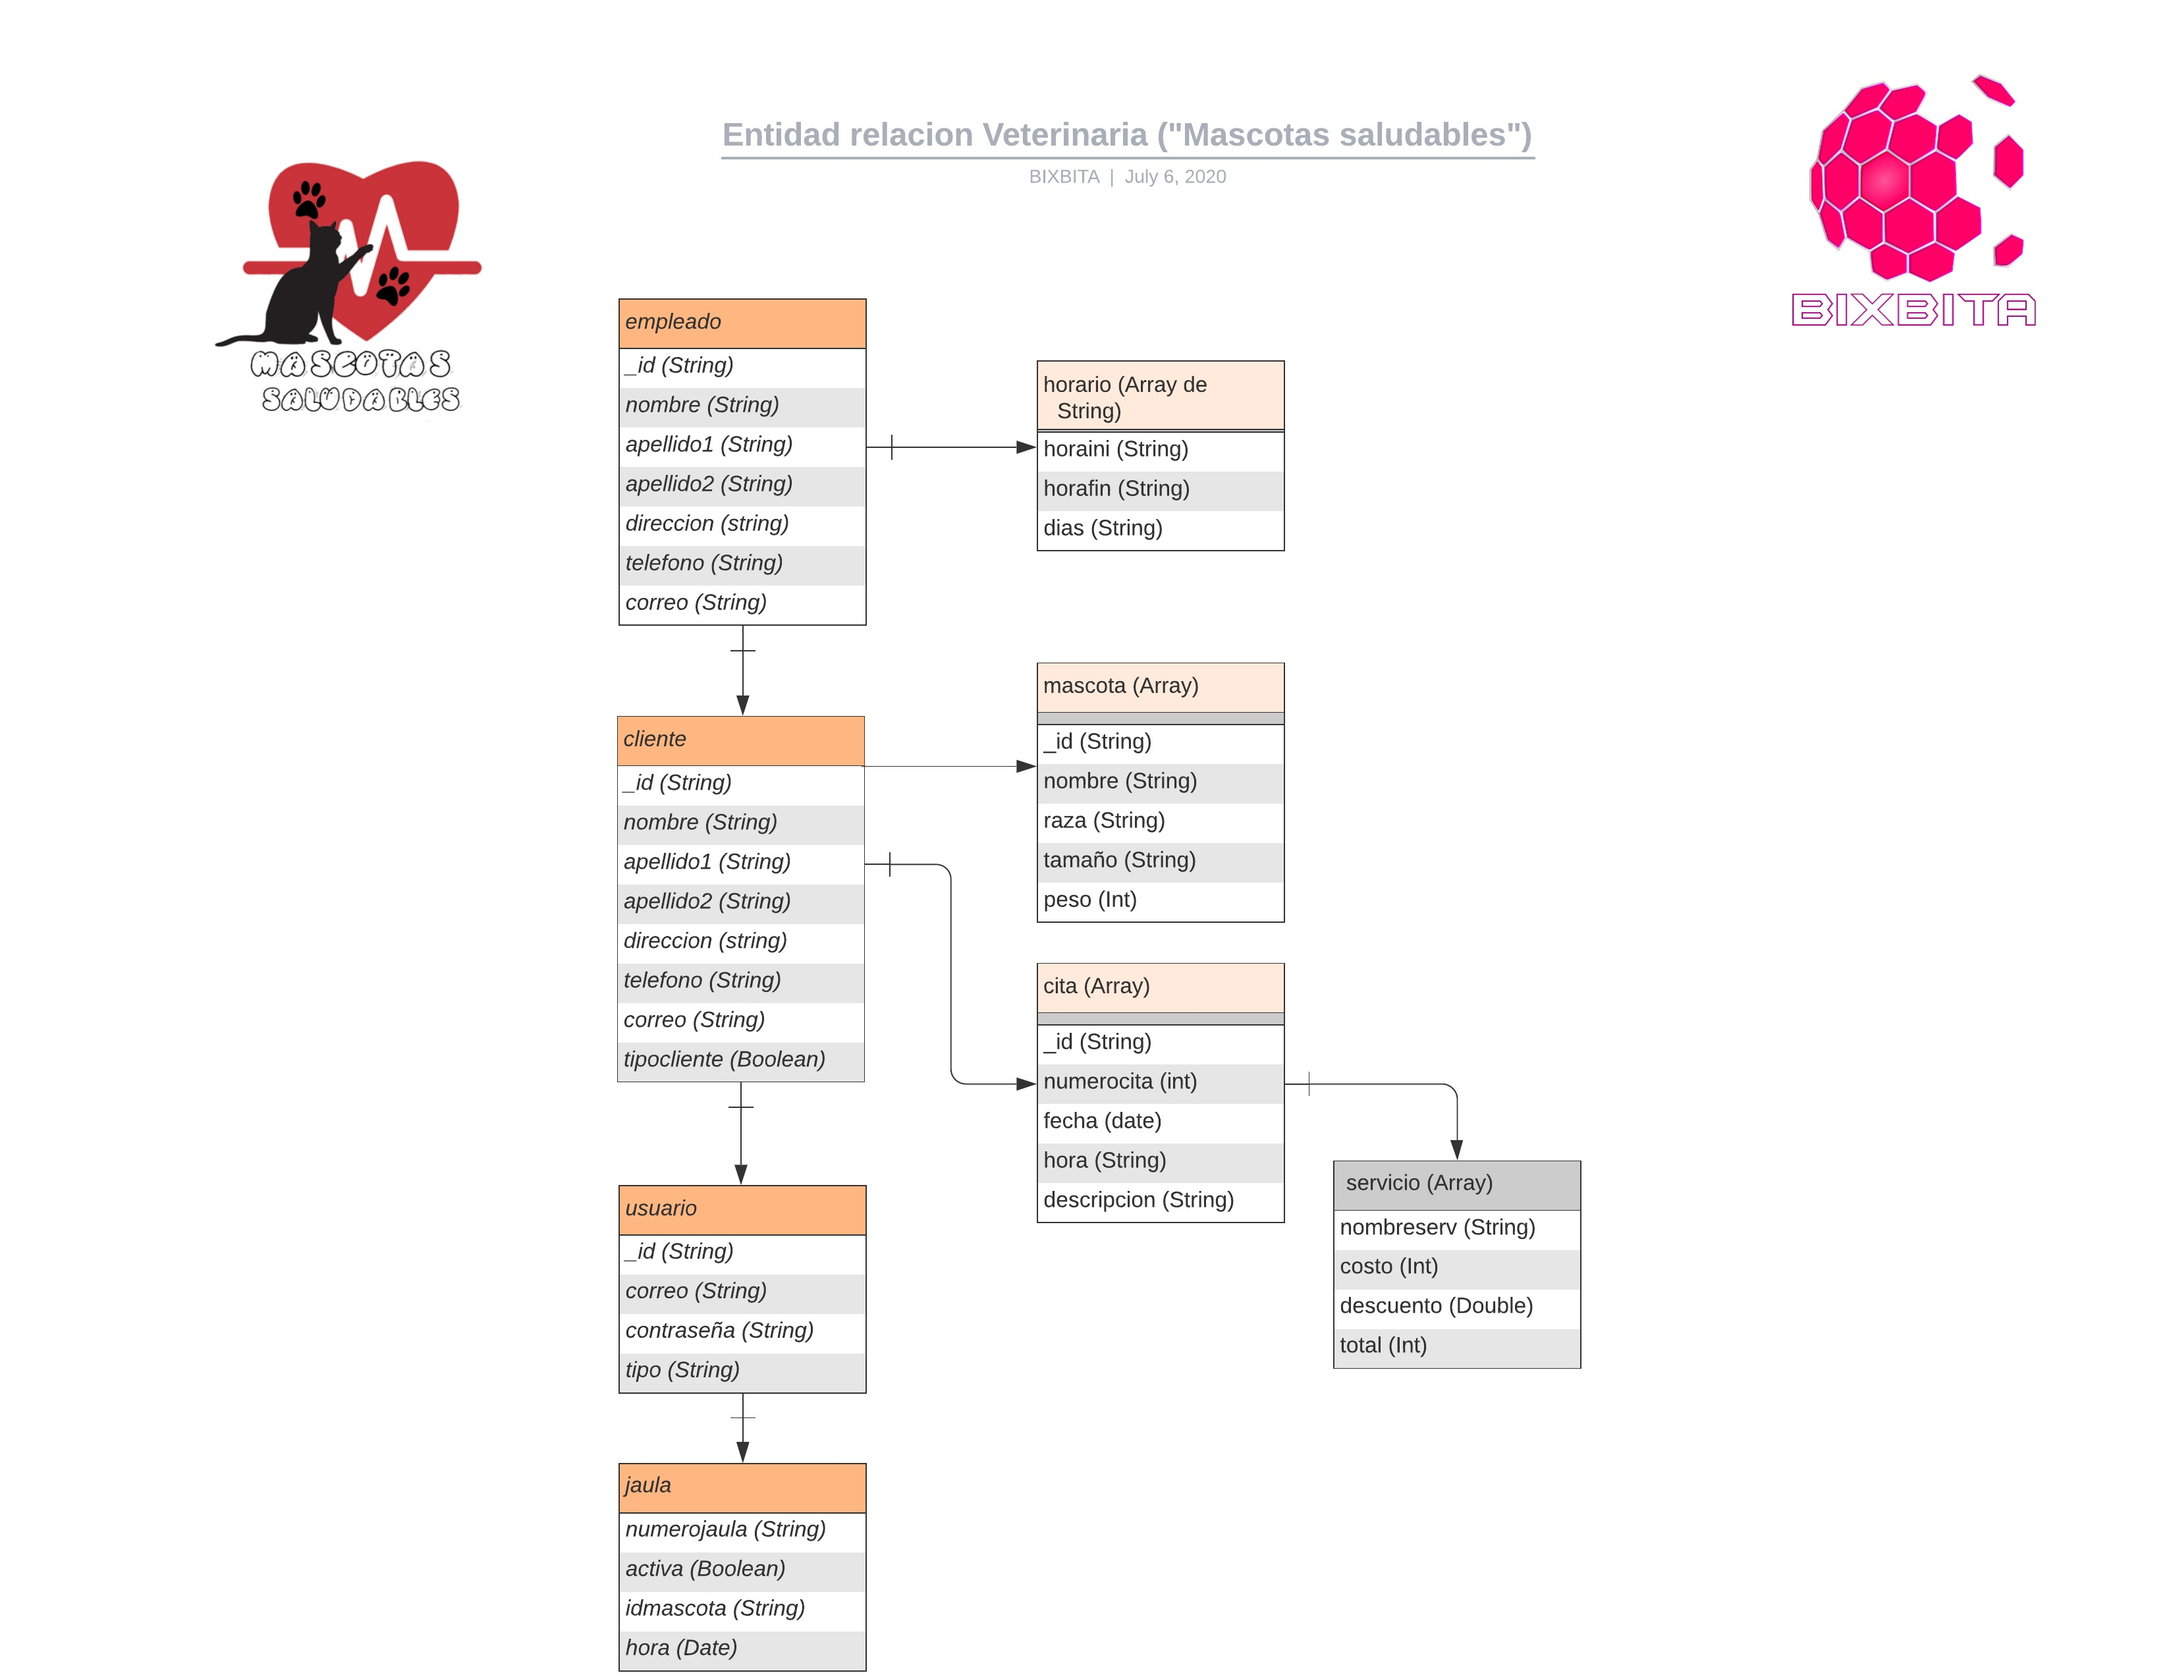
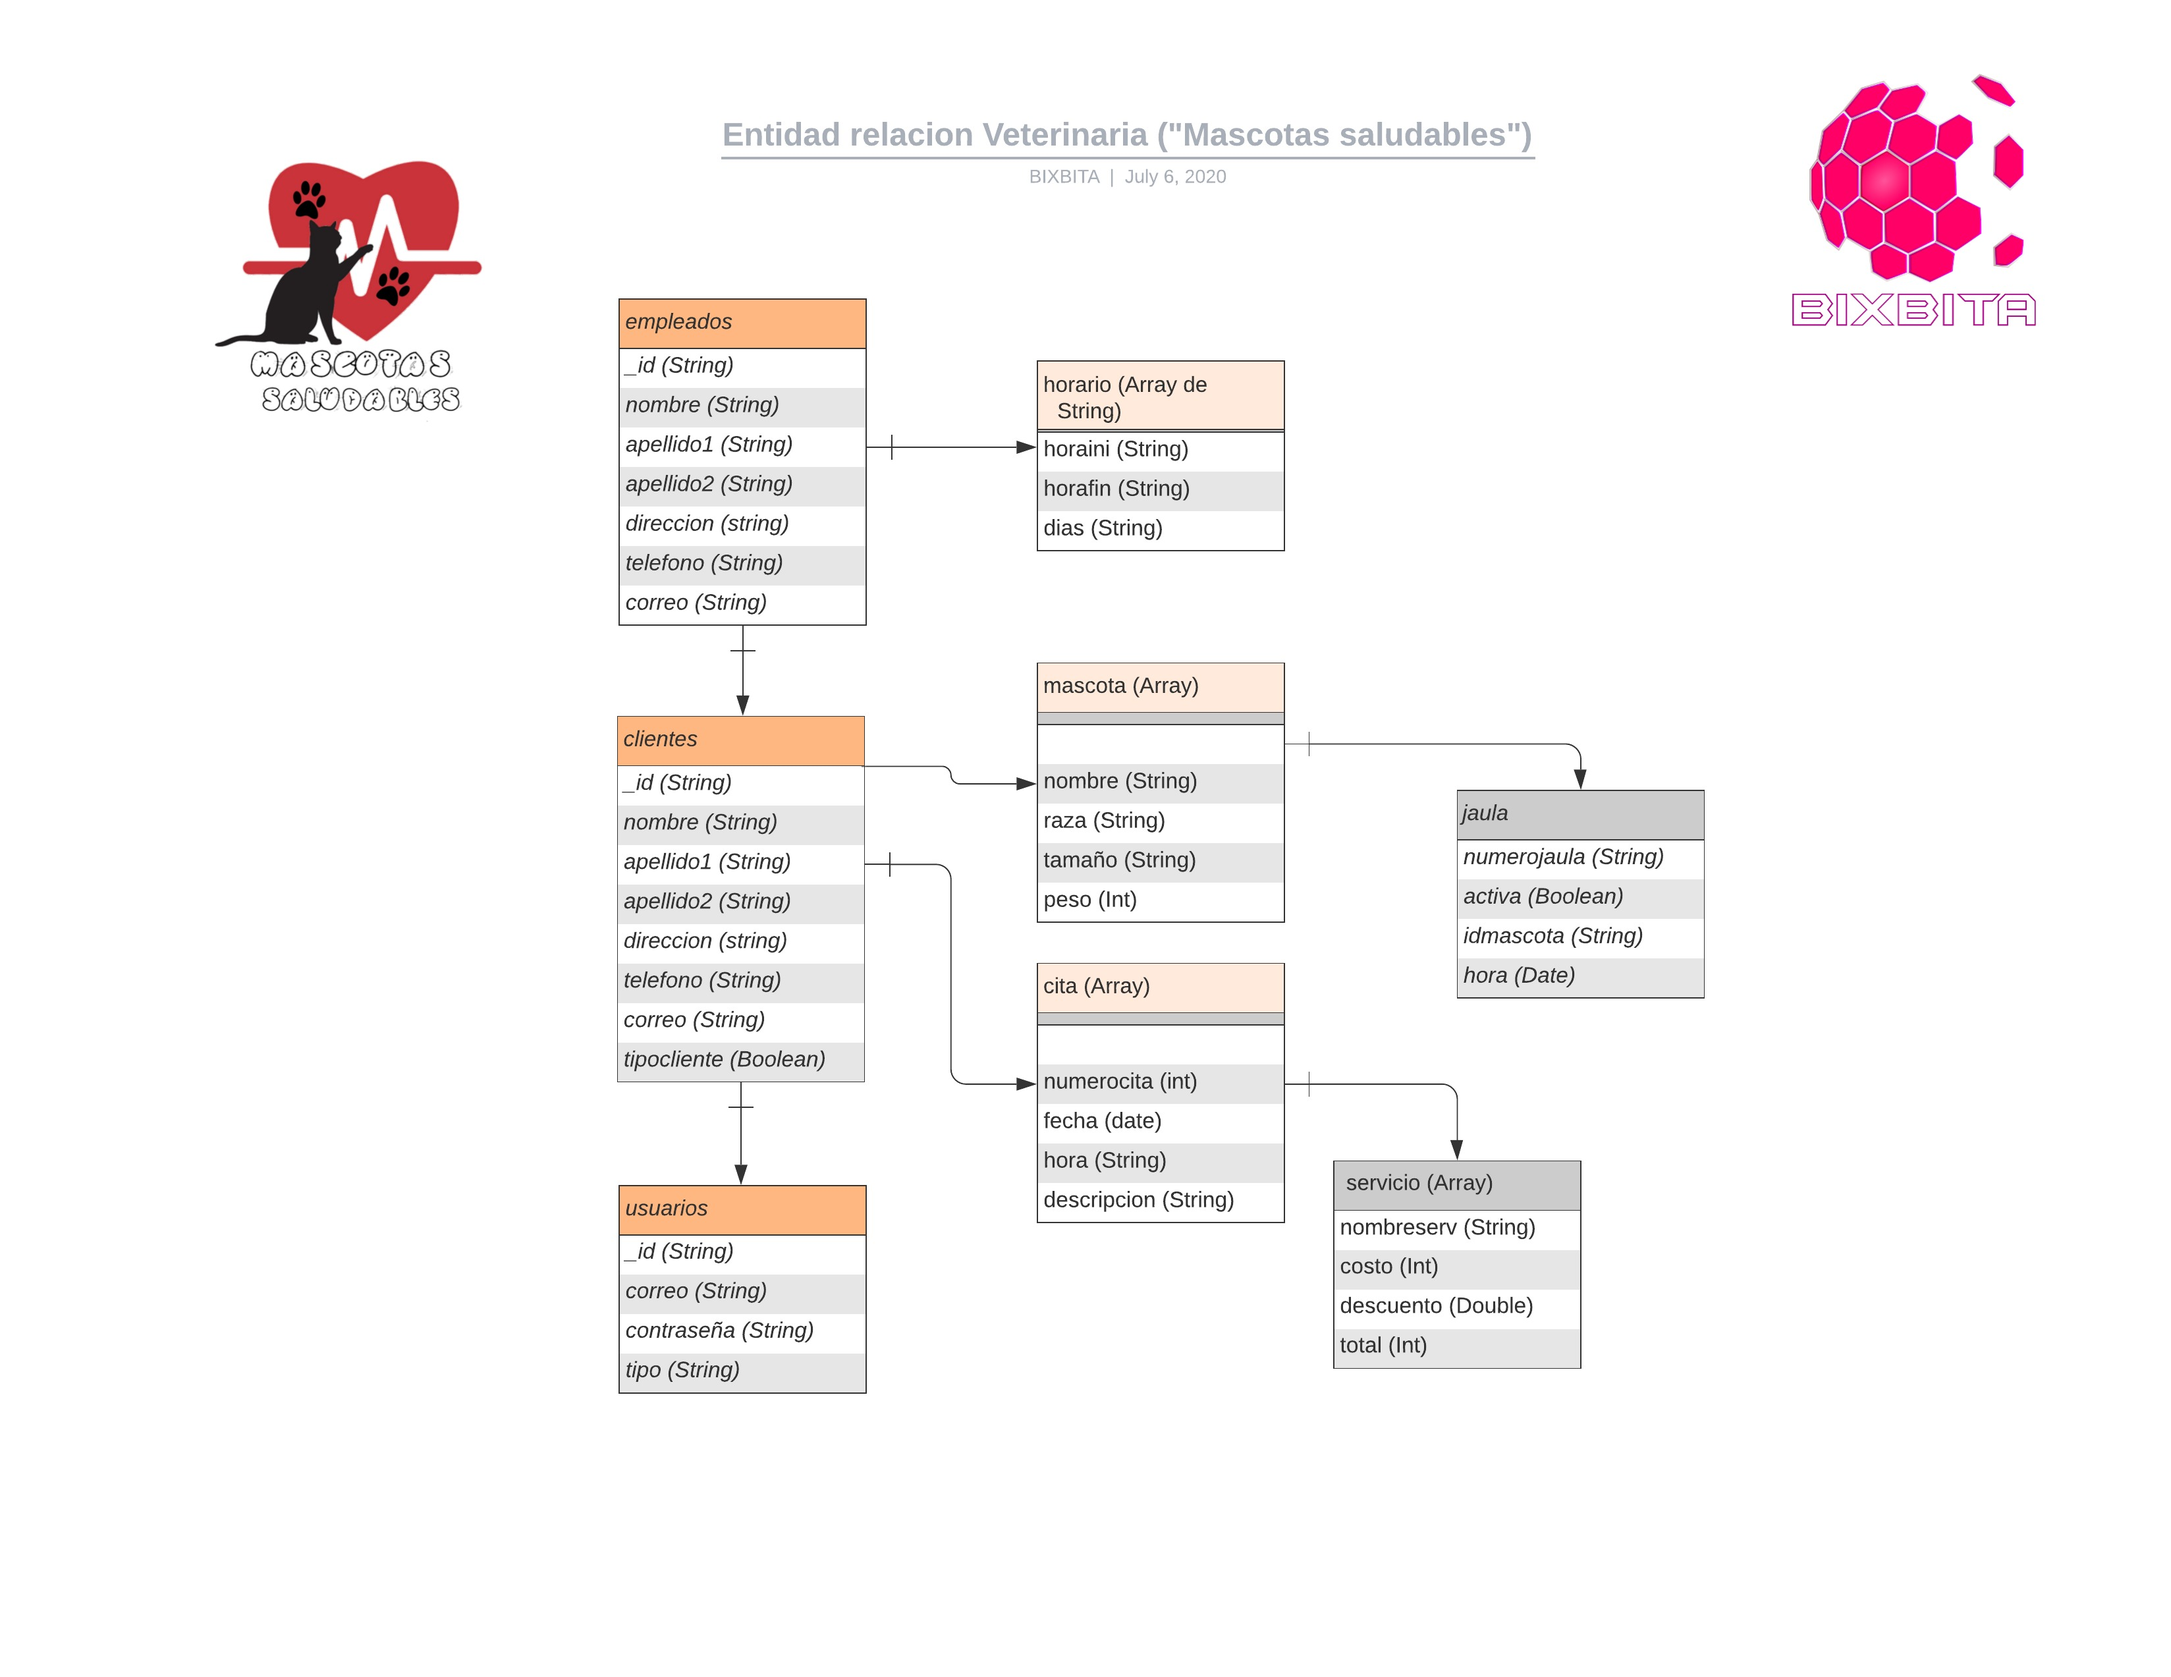
Base de datos, todo correcto

Changed region(s): [[0.6562, 0.4654, 0.8125, 0.6206], [0.2812, 0.8688, 0.4062, 1.0], [0.5, 0.4344, 0.5312, 0.4654]]

diff --git a/BASE DE DATOS/veterinaria.js b/BASE DE DATOS/veterinaria.js
@@ -27,16 +27,22 @@ db.clientes.insertOne(
         "correo": "correotest@gmail.com",
         "mascota": [
             {
-                "_id": "1",
+                
                 "nombre": "firulais",
                 "raza": "chihuahua",
                 "tamaño": "pequeña",
-                "peso": 3
+                "peso": 3,
+                "jaula":{
+                    "numerojaula": "1",
+                    "activa": false,
+                    "idmascota": "12121",
+                    "hora":{$date:{"horaini":""}}
+                }
             }
         ],
         "cita": [
             {
-                "_id": "1",
+                
                 "numerocita": 3,
                 "fecha": {
                     "$date": "2020-06-16T05:00:00.000Z"
@@ -66,9 +72,3 @@ db.usuarios.insertOne({
 });
 
 
-db.jaulas.insertOne({
-    "numerojaula": "1",
-    "activa": false,
-    "idmascota": "12121",
-    "hora":{$date:{"horaini":""}}
-});
